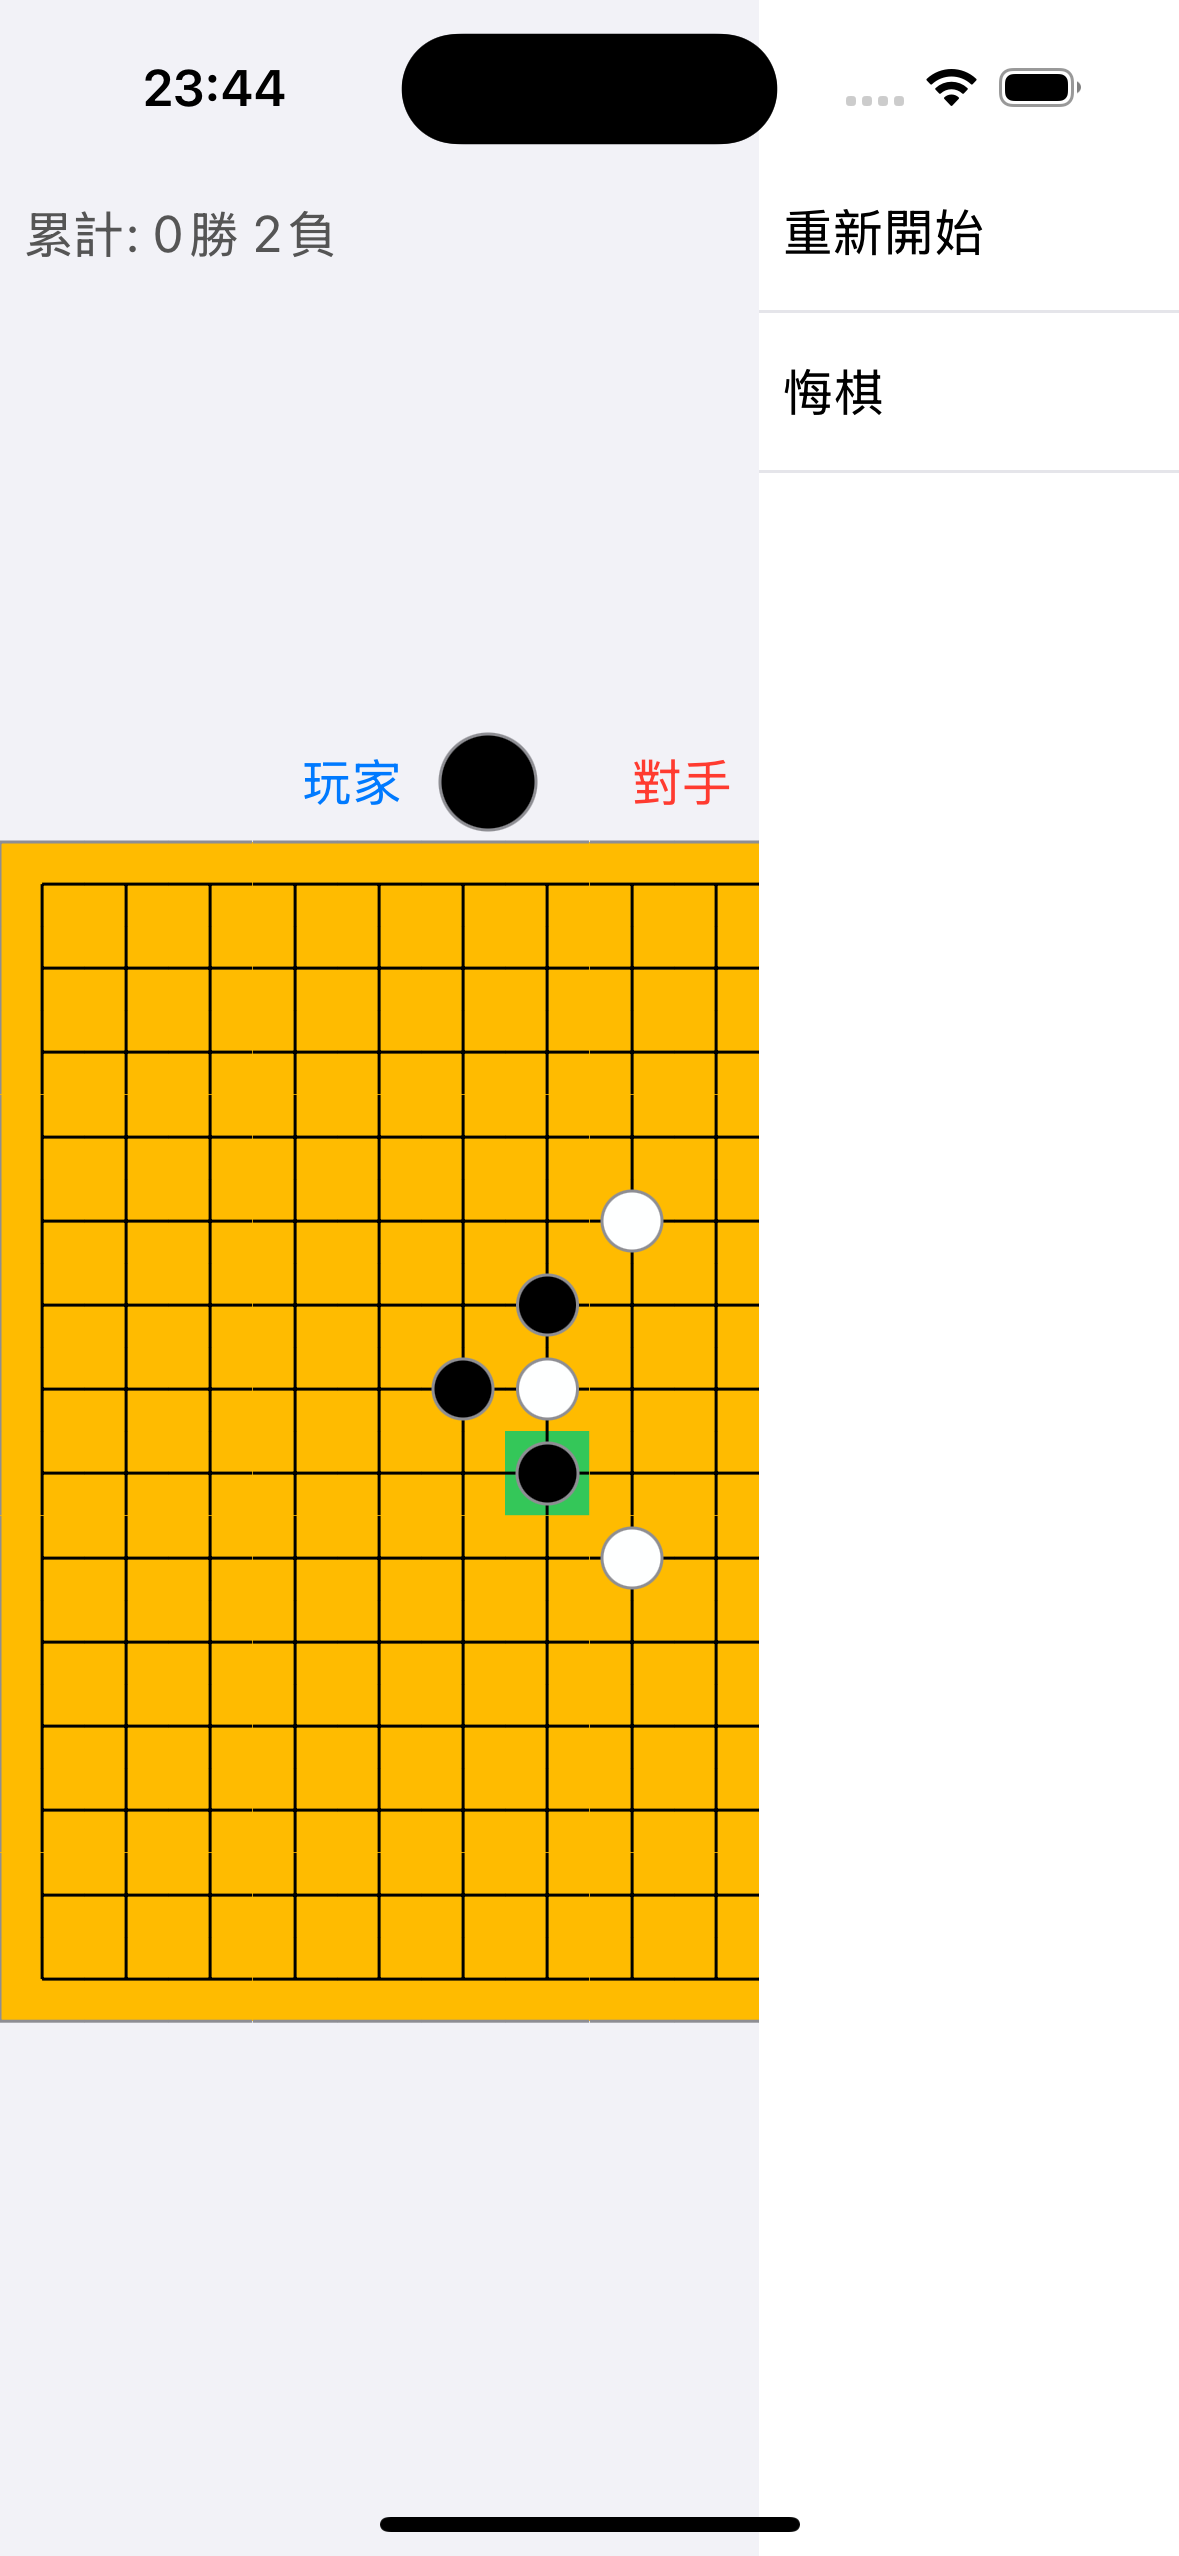
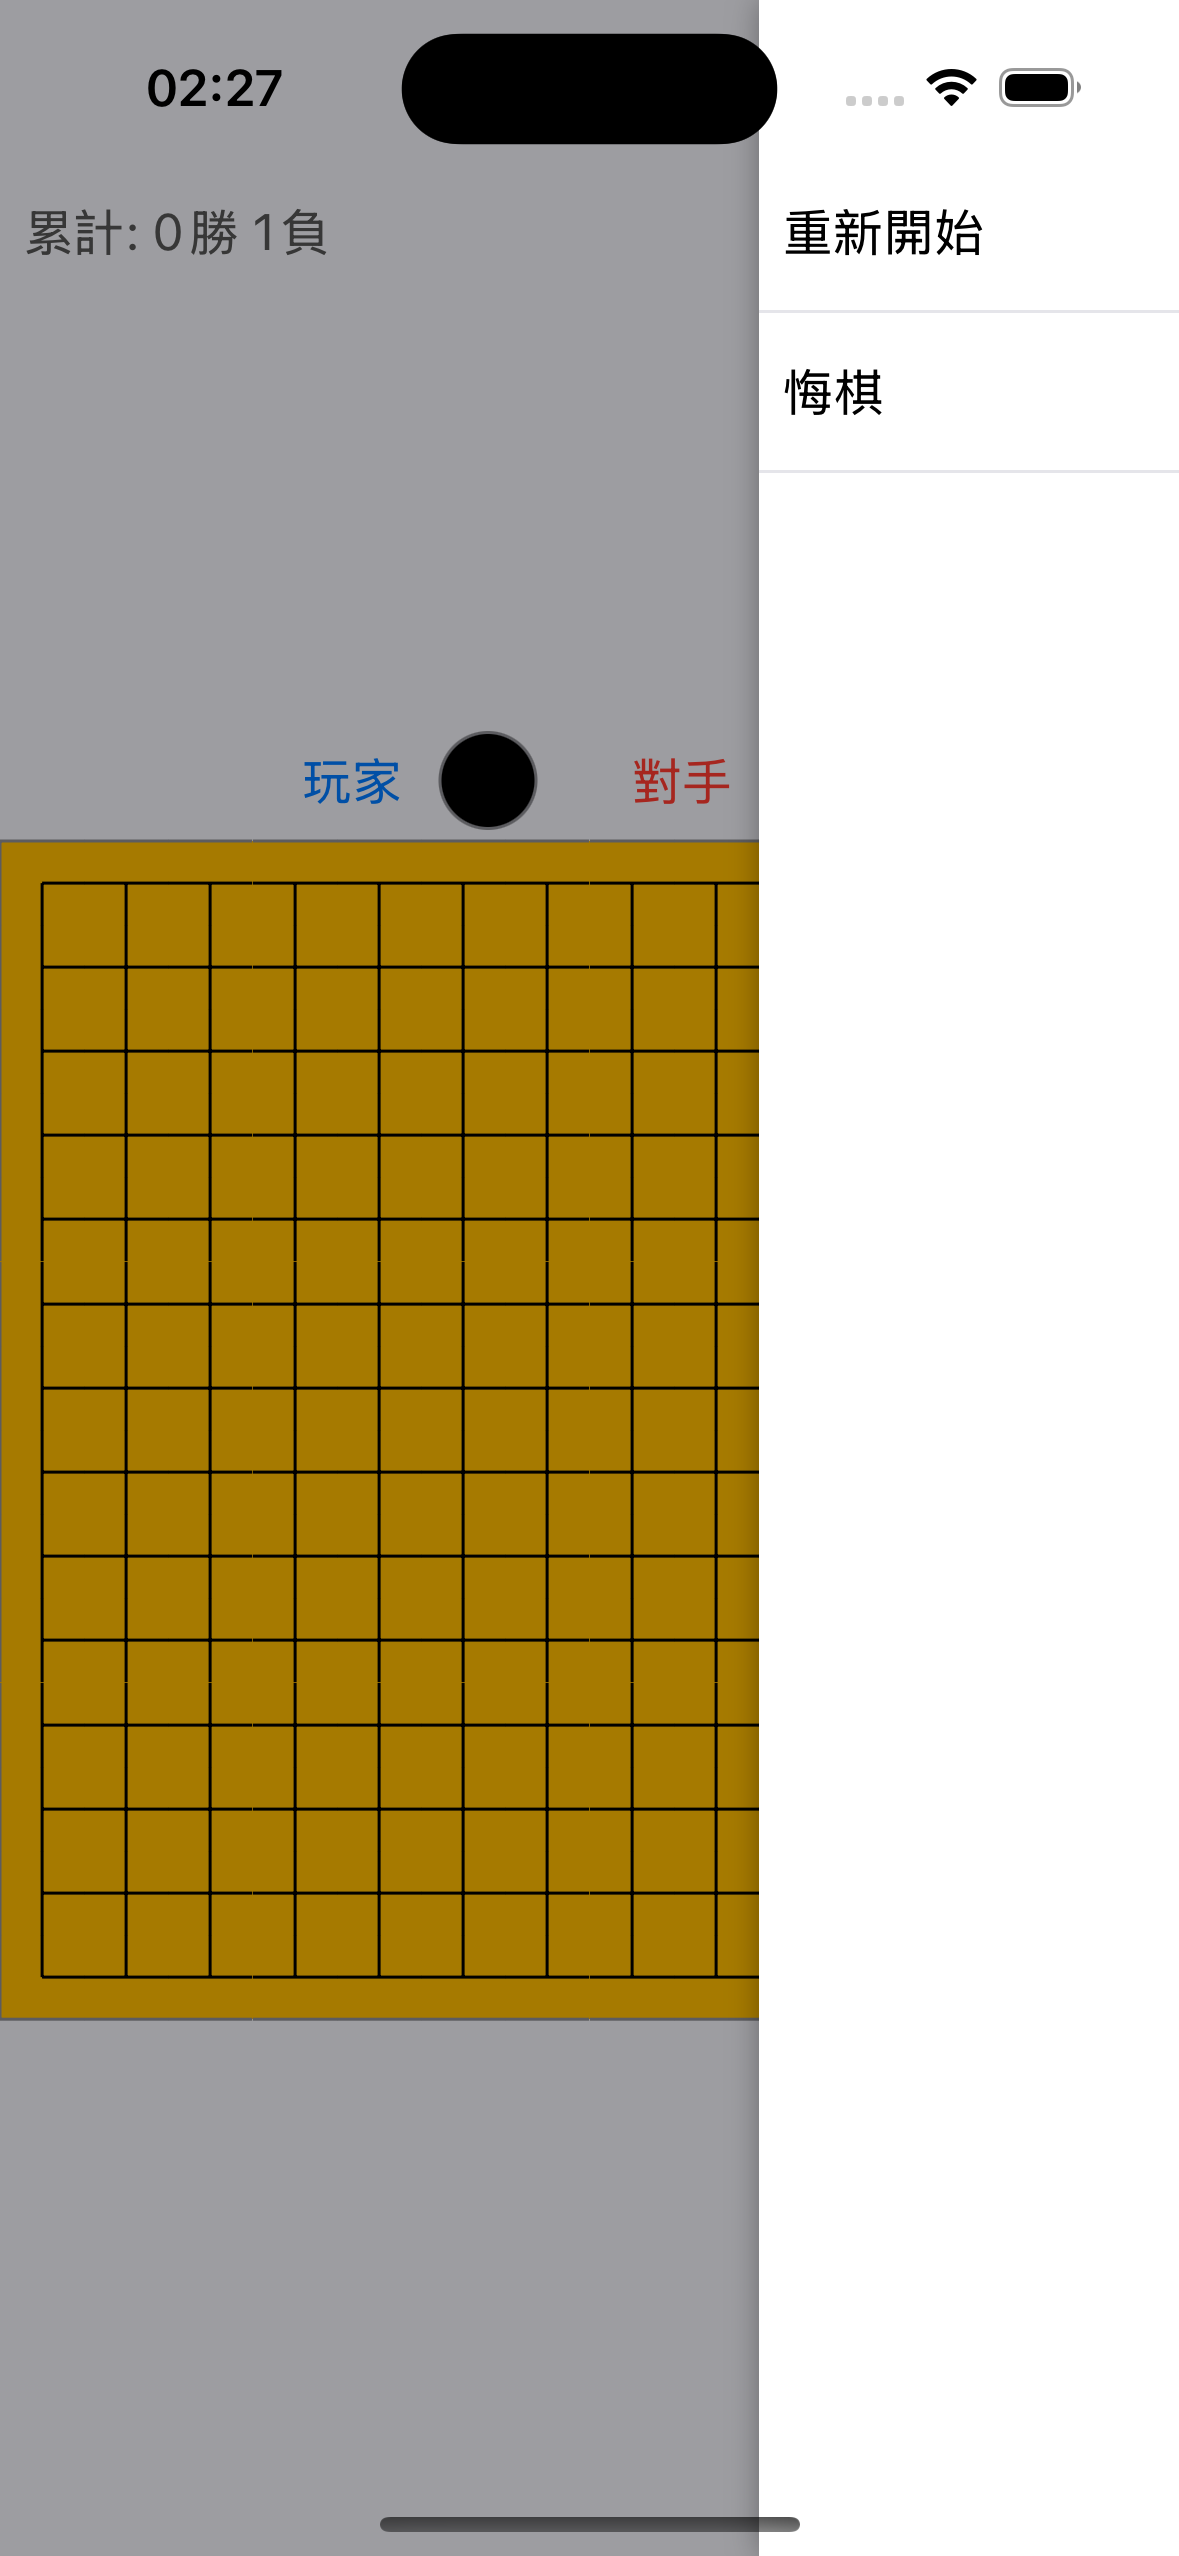
SideMenuView add edge shadow

diff --git a/ChessBoardView.swift b/ChessBoardView.swift
@@ -115,7 +115,7 @@ struct ChessBoardView: View, ChessStyleMediator, @preconcurrency GobangViewModel
                 switch self.gameStatus
                 {
                     case .chessSelection:
-                        Color.black.opacity(0.4)
+                        Color.black.opacity(0.35)
                             .edgesIgnoringSafeArea(.all)
                         
                         ChessSelectionDialog {
@@ -133,6 +133,17 @@ struct ChessBoardView: View, ChessStyleMediator, @preconcurrency GobangViewModel
 
                     default:
                         Spacer()
+                }
+            
+                if isSideMenuOpen {
+                    // 背景遮罩層，點擊時關閉側邊選單
+                    Color.black.opacity(0.35)
+                        .ignoresSafeArea()
+                        .onTapGesture {
+                            withAnimation {
+                                isSideMenuOpen = false
+                            }
+                        }
                 }
             
                 // 側邊選單
@@ -163,6 +174,9 @@ struct ChessBoardView: View, ChessStyleMediator, @preconcurrency GobangViewModel
                             isSideMenuOpen.toggle()
                             break
                     }
+                },
+                onClosed: {
+                    isSideMenuOpen = false
                 })
                 .frame(width: menuWidth)
                 .background(Color.white)

diff --git a/SideMenuView.swift b/SideMenuView.swift
@@ -29,6 +29,7 @@ enum SideMenuAction: CaseIterable
 
 struct SideMenuView: View {
     let onSelected: (_ action: SideMenuAction) -> Void
+    let onClosed: () -> Void
     
     var body: some View {
         VStack {
@@ -51,7 +52,13 @@ struct SideMenuView: View {
             }
             Spacer()
         }
+        .contentShape(Rectangle()) // for tap detection
+        .onTapGesture {
+            onClosed()
+        }
         .frame(maxWidth: .infinity, alignment: .leading) // 撐滿 SideMenuView 寬度
         .background(Color.white)
+        .compositingGroup() // 陰影獨立於子內容渲染
+        .shadow(radius: 5) // 這層加上陰影
     }
 }
